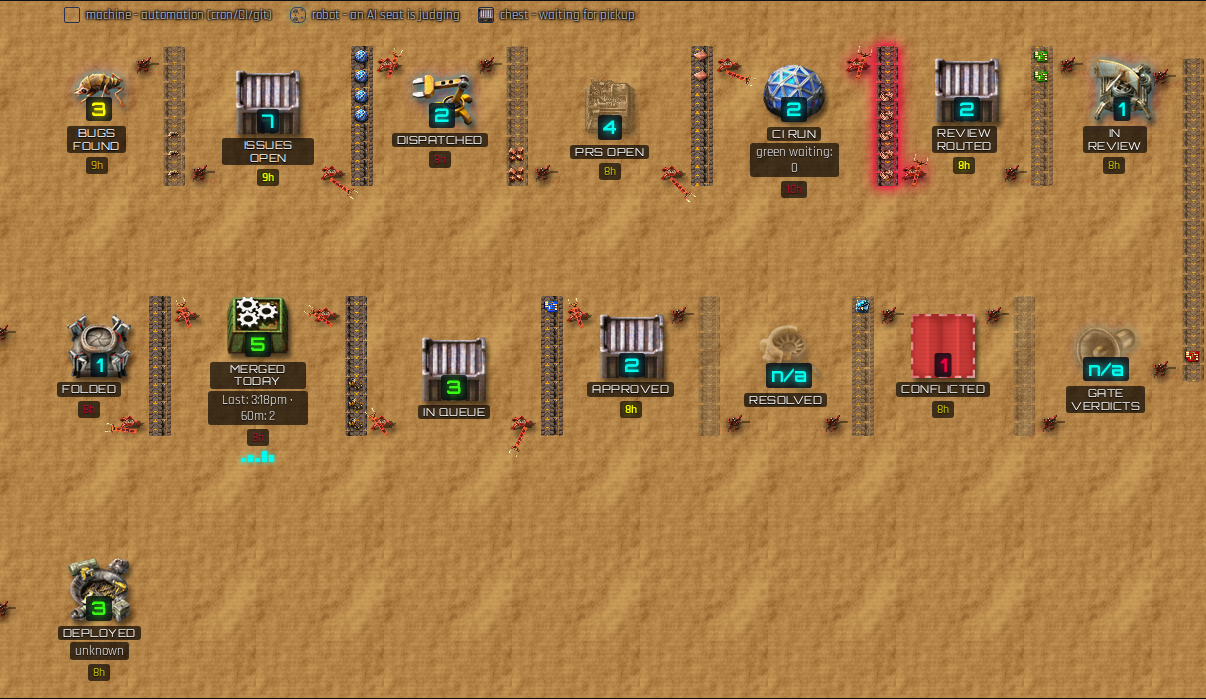
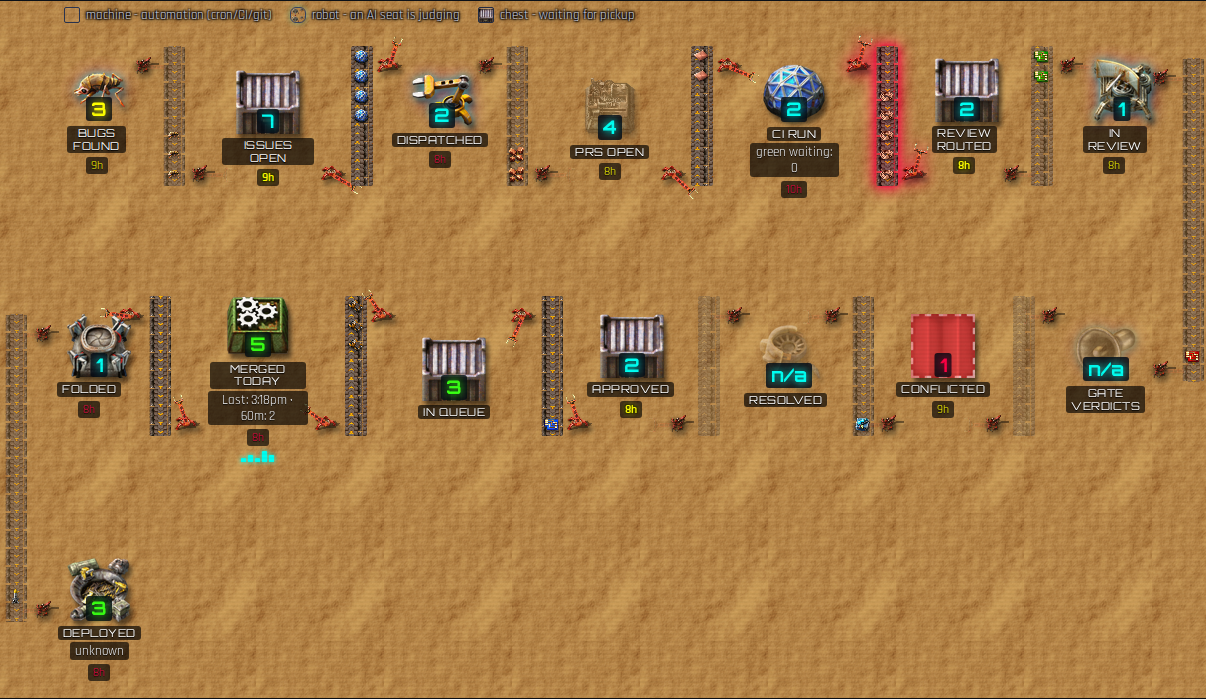
fix(monitor): row 2 chevrons start up, row 2->3 belt back in frame, arm pivots on the tripod hub
Ben, three corrections:
- "chevrons on row 2 are backwards - they come down on the right, so the
  next ones should be up, then down, then up": every row after the first
  now starts UP, since the row-end belt that just fed it came down. Row 1
  still starts down. Row-end belts always flow down.
- "we lost the transport belt going from row 2 to 3": aligning DEPLOYED
  under FOLDED widened row 3's box leftward, and the row-end column was
  placed off the box edge - it slid outside the strip's frame. The column
  now sits just outside the two MACHINES (sprites) and is clamped inside
  #ship-flow's own bounds.
- "the base of the swinging arm should be midpoint on the tripod": the
  arm pivoted at 50%/85% of its sprite, sitting at (17, 27) of the slot,
  while the platform frame's hub is at ~(16, 21). The arm's mounting base
  is its bottom edge, so the pivot is now 50%/100% and the arm is placed
  so that point lands on the hub.

Tests: chevron direction sequence per row (row 1 down-first, row 2
up-first, row-end belts down), and both row-end columns fully inside the
frame.

Claude-Session: https://claude.ai/code/session_015a21LH9eqkn4oZydkWAQ3i

diff --git a/queue_router.py b/queue_router.py
@@ -7300,9 +7300,14 @@ image-rendering:pixelated;opacity:.85;filter:var(--ground-shadow)}
    left-to-right (90deg), horizontal right-to-left (-90deg), and vertical,
    always reaching downward for a top-to-bottom belt (180deg) - instead of a
    separate hardcoded keyframe/override pair per direction. */
-.ship-inserter .inserter-arm{position:absolute;left:10px;top:0;width:14px;height:32px;
+/* Ben: "the base of the swinging arm should be midpoint on the tripod".
+   The platform frame's hub sits at ~(15.7, 20.6) of the 34x32 slot (105x79
+   native frame drawn at 30x23, bottom-left); the arm sprite's mounting
+   base is its very bottom edge, so the pivot is 50% 100% of the arm and
+   the arm is placed so that point lands on the hub. */
+.ship-inserter .inserter-arm{position:absolute;left:9px;top:-11px;width:14px;height:32px;
 background-repeat:no-repeat;background-size:14px 32px;image-rendering:pixelated;
-transform-origin:50% 85%;transform:rotate(var(--arm-rest,90deg));transition:transform .4s ease,opacity .4s ease}
+transform-origin:50% 100%;transform:rotate(var(--arm-rest,90deg));transition:transform .4s ease,opacity .4s ease}
 .ship-inserter.idle .inserter-arm{opacity:.4}
 /* LORE order 14 "the inserters must swing": a real Factorio inserter's arm
    rotates through roughly 180 degrees between the pickup and drop side - the
@@ -8717,9 +8722,13 @@ const SHIP_VBELT_ROW_ORDER = [
     ['gate verdicts', 'conflicted', 'resolved', 'approved', 'in line', 'merged today'],
 ];
 function shipVbeltFlowsDown(square) {
-    for (const row of SHIP_VBELT_ROW_ORDER) {
-        const idx = row.indexOf(square);
-        if (idx !== -1) return idx % 2 === 0;
+    for (let r = 0; r < SHIP_VBELT_ROW_ORDER.length; r++) {
+        const idx = SHIP_VBELT_ROW_ORDER[r].indexOf(square);
+        // Ben: the row-end belt into row 2 "comes down on the right, so the
+        // next ones should be up, then down, then up" - row 1 has nothing
+        // feeding it so it starts down; every later row starts UP because
+        // the row-end belt that just fed it came down.
+        if (idx !== -1) return r === 0 ? idx % 2 === 0 : idx % 2 === 1;
     }
     return true;
 }
@@ -9057,7 +9066,12 @@ function positionShipElbows() {
         const bottom = Math.max(f.bottom, t.bottom);
         elbow.style.top = (top - wrapRect.top) + 'px';
         elbow.style.height = (bottom - top) + 'px';
-        const edge = side === 'right' ? Math.max(fb.right, tb.right) + 4 : Math.min(fb.left, tb.left) - 4 - elbow.offsetWidth;
+        // Sit just outside the two machines (sprites), then clamp inside the
+        // strip - row 3's box being wider than row 2's last had pushed the
+        // whole row-2 -> row-3 belt off the left edge of the frame.
+        let edge = side === 'right' ? Math.max(f.right, t.right) + 4 : Math.min(f.left, t.left) - 4 - elbow.offsetWidth;
+        const flowRect = document.getElementById('ship-flow').getBoundingClientRect();
+        edge = Math.max(flowRect.left + 2, Math.min(edge, flowRect.right - 2 - elbow.offsetWidth));
         elbow.style.left = (edge - wrapRect.left) + 'px';
     };
     // Row 1 ends on the right at 'in review'; row 2 (row-reverse) starts on

diff --git a/tests/dashboard-truth/factorio-belts-evidence.py b/tests/dashboard-truth/factorio-belts-evidence.py
@@ -222,6 +222,18 @@ with sync_playwright() as p:
         b = page.locator('.ship-arrow[data-square-left="' + square + '"] .ship-belt').bounding_box()
         assert b['height'] > b['width'], (square, b)
 
+    # Ben: chevrons alternate along a row, and row 2 starts UP because the
+    # row-end belt feeding it came down on the right. Row 1 starts down.
+    def flows_up(square):
+        return 'ship-belt-vertical-up' in page.locator('.ship-arrow[data-square-left="' + square + '"] .ship-belt').get_attribute('class')
+    row1 = ['bugs found', 'issues open', 'dispatched', 'prs open', 'ci q/run', 'review routed']
+    row2 = ['gate verdicts', 'conflicted', 'resolved', 'approved', 'in line', 'merged today']
+    assert [flows_up(sq) for sq in row1] == [False, True, False, True, False, True], [(sq, flows_up(sq)) for sq in row1]
+    assert [flows_up(sq) for sq in row2] == [True, False, True, False, True, False], [(sq, flows_up(sq)) for sq in row2]
+    # Row-end belts always carry work DOWN to the next row.
+    for sq in ('in review', 'folded'):
+        assert not flows_up(sq), (sq, 'row-end belt must flow down')
+
     # Round 2 (Elrond review, PR #35, defect 1): no stage may ever render a
     # bare '?' - it reads as indistinguishable from the no-data wreckage state
     # the sprite/remnant already carries. Every one of the 15 stages gets a
@@ -280,7 +292,11 @@ with sync_playwright() as p:
         from_box = page.locator('[data-square="' + from_sq + '"]').bounding_box()
         # Row 3's lone stage sits under row 2's last stage: the belt must be
         # a straight column beside both, never overlapping either.
-        assert elbow_box['x'] >= from_box['x'] + from_box['width'] or elbow_box['x'] + elbow_box['width'] <= from_box['x'], (elbow_id, 'overlaps from-stage', elbow_box, from_box)
+        # Ben: "we lost the transport belt going from row 2 to 3" - the whole
+        # column must be inside the strip's frame, never clipped off an edge.
+        assert elbow_box['x'] >= flow_left and elbow_box['x'] + elbow_box['width'] <= flow_right, (elbow_id, 'row-end belt outside the frame', elbow_box, flow_left, flow_right)
+        belt_box = page.locator('#' + elbow_id + ' .ship-belt').bounding_box()
+        assert belt_box['x'] >= flow_left and belt_box['x'] + belt_box['width'] <= flow_right, (elbow_id, 'row-end belt column clipped', belt_box, flow_left, flow_right)
 
     # Order 14 "the inserters must swing": a moving inserter's arm carries a
     # real animation, its duration is BOUND to the measured rate (two
